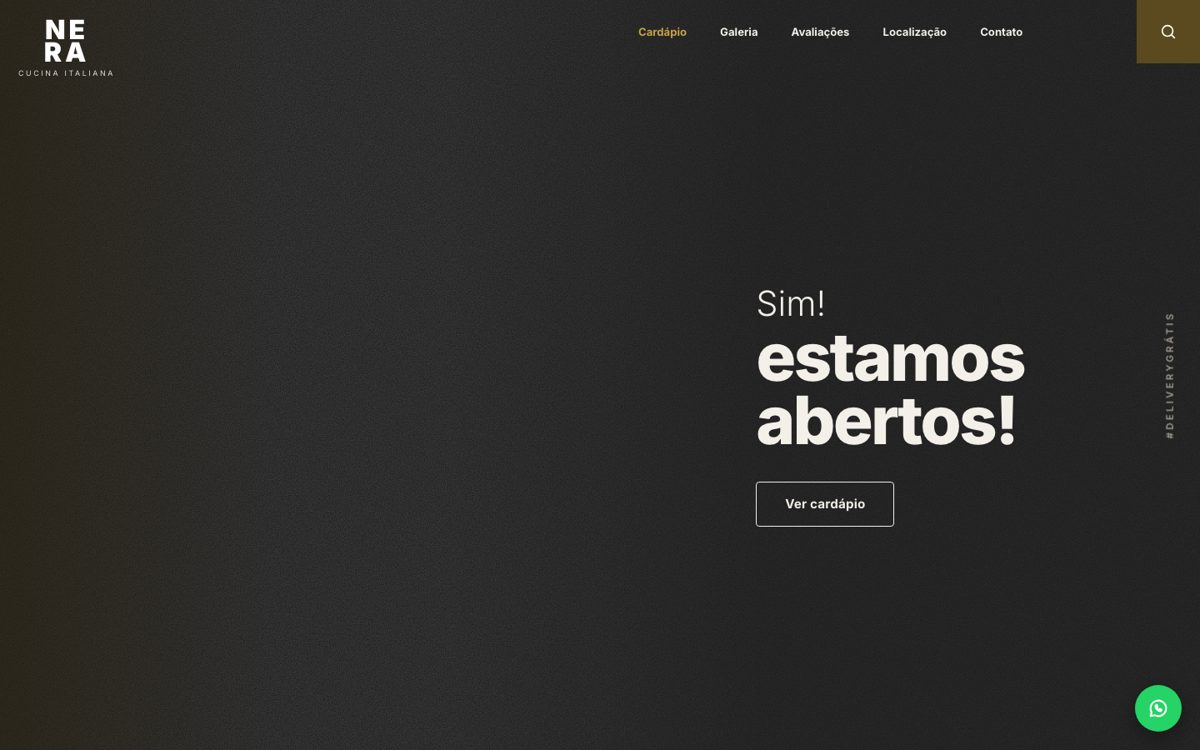
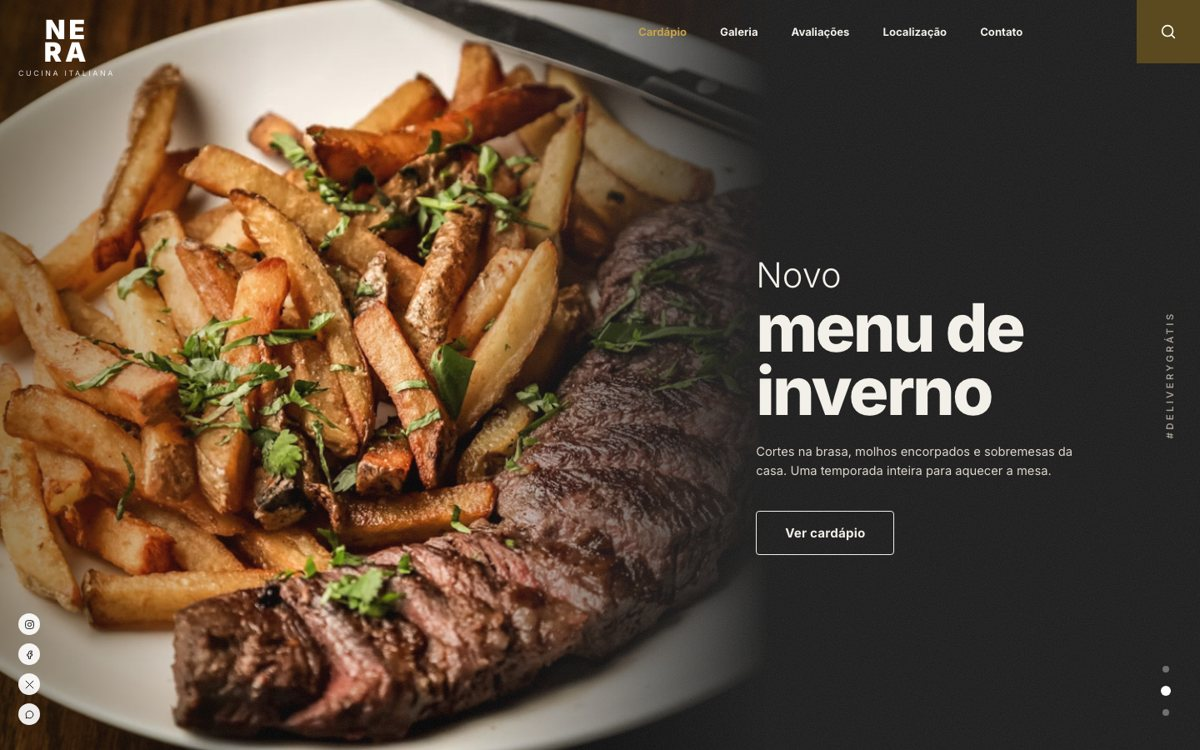
Liga a vitrine à NERA publicada

diff --git a/js/data.js b/js/data.js
@@ -17,8 +17,8 @@ export const PROJECTS = [
     highlights: ['Painel com métricas de cliques', 'Mensagens e avaliações com moderação', 'Pedido direto no WhatsApp', 'Responsivo e animado'],
     stack: ['HTML', 'CSS', 'JavaScript', 'Supabase', 'Vercel'],
     image: 'img/nera.jpg',
-    site: '__NERA_URL__',
-    admin: '__NERA_URL__/admin',
+    site: 'https://nera-restaurante.vercel.app',
+    admin: 'https://nera-restaurante.vercel.app/admin',
     code: 'https://github.com/qgmtheus/nera-restaurante',
     accent: '#c9a24a',
   },

diff --git a/README.md b/README.md
@@ -1,0 +1,5 @@
+# Portfólio · Kayky
+
+Vitrine dos meus projetos de landing pages. HTML, CSS e JavaScript puros, publicada na Vercel.
+
+Para adicionar um projeto, inclua um item em `js/data.js` e uma imagem em `img/`.
